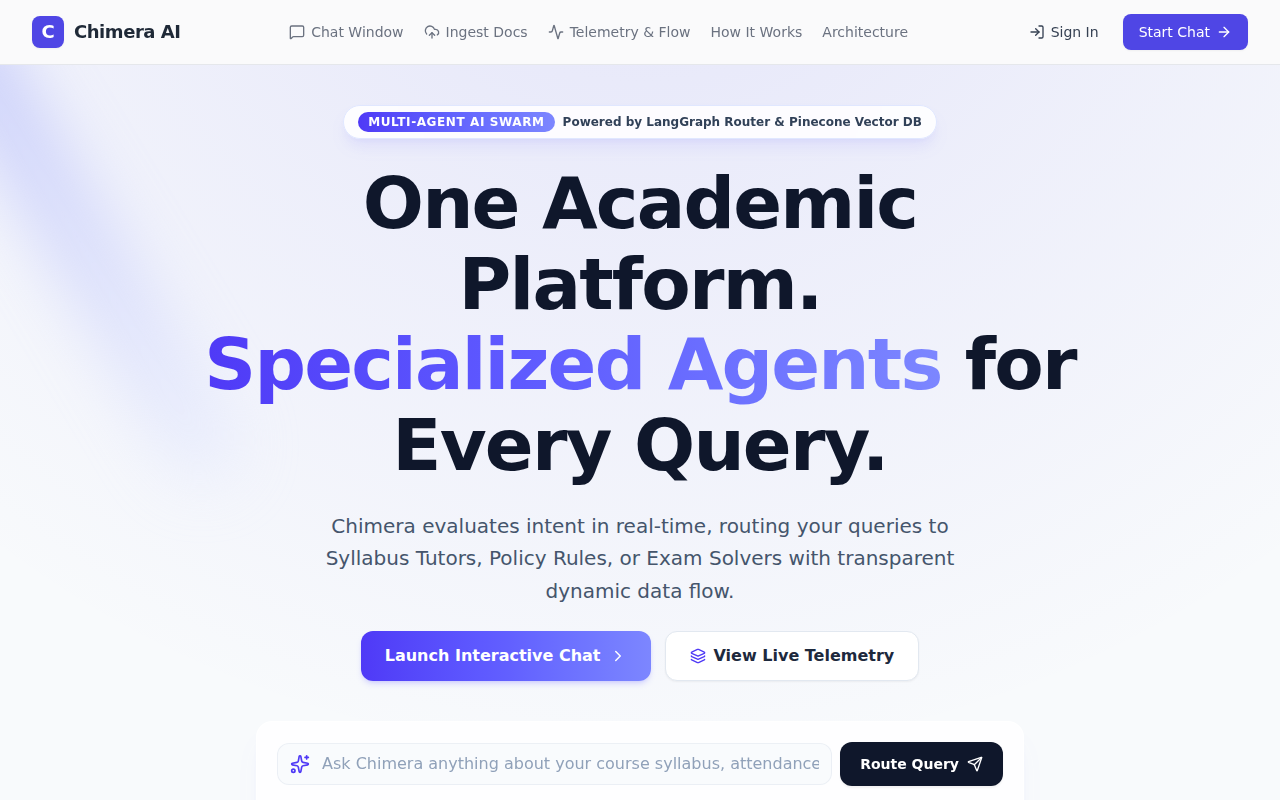
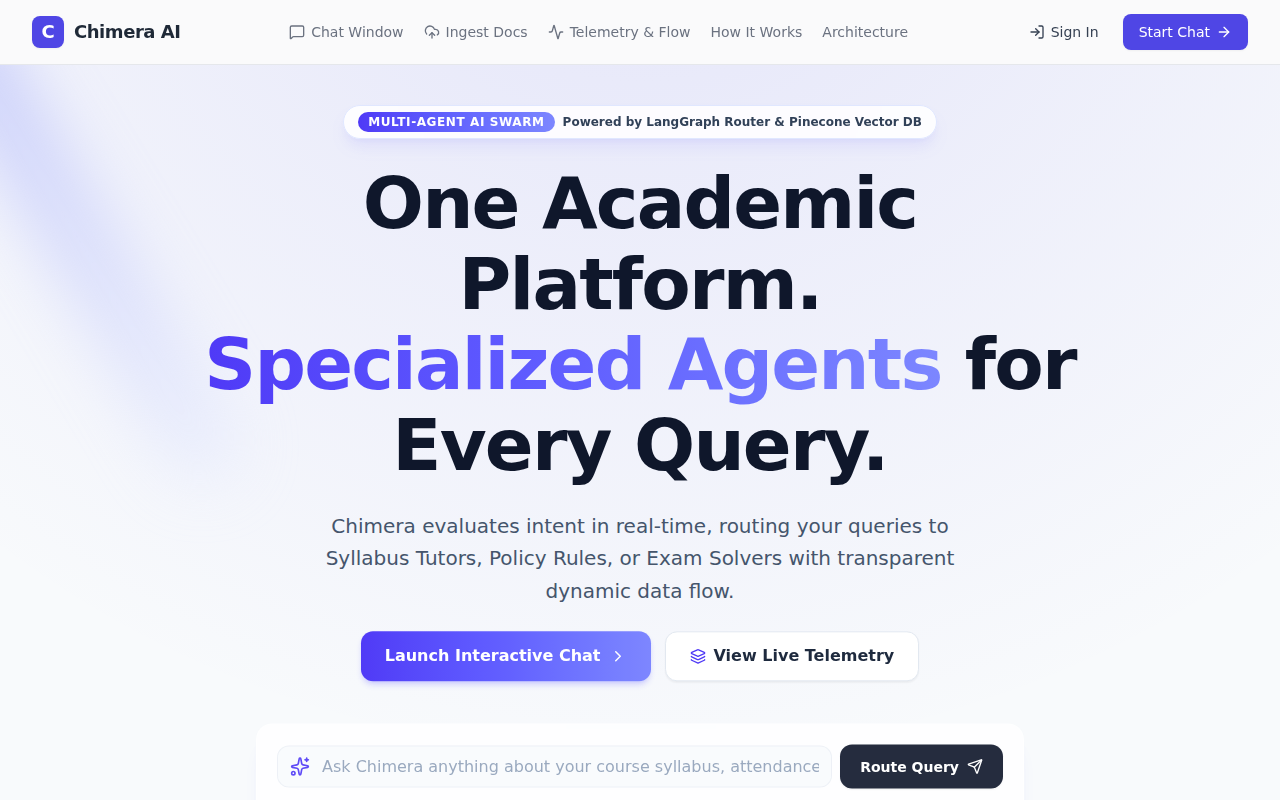
feat: enhance pages with HeroFinancial inspired motion and ambient glows

Changed region(s): [[0.2188, 0.9062, 0.7812, 1.0], [0.5312, 0.8125, 0.6875, 0.8438], [0.3125, 0.8125, 0.375, 0.8438]]

diff --git a/chimera-frontend/src/pages/LoginPage.jsx b/chimera-frontend/src/pages/LoginPage.jsx
@@ -1,7 +1,8 @@
-import React, { useState } from "react";
+import React, { useState, useRef } from "react";
 import { useNavigate, Link } from "react-router-dom";
 import { HeaderNav } from "@/components/HeaderNav";
 import { SpotlightCard } from "@/components/ui/spotlight-card";
+import { TimelineAnimation } from "@/components/ui/hero-financial-utils/timeline-animation";
 import { Lock, Mail, ArrowRight, ShieldCheck, UserCheck, Sparkles, CheckCircle2 } from "lucide-react";
 
 export function LoginPage() {
@@ -12,6 +13,7 @@ export function LoginPage() {
   const [isLoading, setIsLoading] = useState(false);
   const [error, setError] = useState("");
   const navigate = useNavigate();
+  const timelineRef = useRef(null);
 
   const handleLogin = (e) => {
     e.preventDefault();
@@ -48,170 +50,175 @@ export function LoginPage() {
   };
 
   return (
-    <div className="min-h-screen bg-[#F9FAFB] text-[#1F2937] flex flex-col font-sans">
+    <div ref={timelineRef} className="min-h-screen bg-[#f7f9fc] text-[#1f293b] flex flex-col font-sans relative overflow-hidden">
+      {/* Background Soft Glow & SVGs inspired by HeroFinancial */}
+      <div className="absolute inset-0 z-0 bg-[radial-gradient(ellipse_80%_80%_at_50%_-20%,rgba(79,70,229,0.12),rgba(255,255,255,0))] pointer-events-none" />
+
       <HeaderNav />
 
-      <main className="flex-1 flex items-center justify-center px-4 py-12 bg-radial from-indigo-50/50 via-gray-50 to-gray-100">
+      <main className="flex-1 flex items-center justify-center px-4 py-12 relative z-10">
         <div className="w-full max-w-md">
           {/* Top Logo / Title Banner */}
-          <div className="text-center mb-8">
-            <div className="inline-flex items-center justify-center w-12 h-12 rounded-xl bg-[#4F46E5] text-white font-bold text-2xl shadow-lg shadow-indigo-500/30 mb-3">
+          <TimelineAnimation animationNum={1} timelineRef={timelineRef} className="text-center mb-8">
+            <div className="inline-flex items-center justify-center w-12 h-12 rounded-xl bg-gradient-to-tr from-indigo-600 to-indigo-400 text-white font-bold text-2xl shadow-lg shadow-indigo-500/30 mb-3">
               C
             </div>
-            <h1 className="text-2xl font-bold text-[#1F2937] tracking-tight">
+            <h1 className="text-2xl sm:text-3xl font-extrabold text-[#1f293b] tracking-tight">
               Welcome to Chimera Swarm
             </h1>
-            <p className="text-sm text-[#6B7280] mt-1">
+            <p className="text-sm text-slate-500 mt-1 font-medium">
               Multi-Agent Intelligence Network for University Systems
             </p>
-          </div>
+          </TimelineAnimation>
 
-          {/* 21st.dev Style Spotlight Card Container */}
-          <SpotlightCard className="p-8 bg-white/90 backdrop-blur-xl border border-gray-200/80 rounded-2xl shadow-xl shadow-gray-200/50">
-            {/* Role Switcher Tabs */}
-            <div className="flex bg-gray-100/80 p-1 rounded-xl mb-6">
-              <button
-                type="button"
-                onClick={() => setRole("student")}
-                className={`flex-1 flex items-center justify-center gap-2 py-2 rounded-lg text-xs font-semibold transition-all ${
-                  role === "student"
-                    ? "bg-white text-[#4F46E5] shadow-xs"
-                    : "text-gray-500 hover:text-gray-900"
-                }`}
-              >
-                <UserCheck className="w-3.5 h-3.5" />
-                Student Portal
-              </button>
-              <button
-                type="button"
-                onClick={() => setRole("faculty")}
-                className={`flex-1 flex items-center justify-center gap-2 py-2 rounded-lg text-xs font-semibold transition-all ${
-                  role === "faculty"
-                    ? "bg-white text-[#4F46E5] shadow-xs"
-                    : "text-gray-500 hover:text-gray-900"
-                }`}
-              >
-                <ShieldCheck className="w-3.5 h-3.5" />
-                Faculty / Admin
-              </button>
-            </div>
-
-            {error && (
-              <div className="mb-4 p-3 rounded-lg bg-red-50 border border-red-200 text-red-600 text-xs font-medium">
-                {error}
+          {/* Spotlight Card with Timeline Motion */}
+          <TimelineAnimation animationNum={2} timelineRef={timelineRef}>
+            <SpotlightCard className="p-8 bg-white/90 backdrop-blur-xl border border-white/80 rounded-2xl shadow-xl shadow-indigo-500/5">
+              {/* Role Switcher Tabs */}
+              <div className="flex bg-slate-100/80 p-1 rounded-xl mb-6 border border-slate-200/60">
+                <button
+                  type="button"
+                  onClick={() => setRole("student")}
+                  className={`flex-1 flex items-center justify-center gap-2 py-2 rounded-lg text-xs font-semibold transition-all ${
+                    role === "student"
+                      ? "bg-white text-indigo-600 shadow-xs"
+                      : "text-slate-500 hover:text-slate-900"
+                  }`}
+                >
+                  <UserCheck className="w-3.5 h-3.5" />
+                  Student Portal
+                </button>
+                <button
+                  type="button"
+                  onClick={() => setRole("faculty")}
+                  className={`flex-1 flex items-center justify-center gap-2 py-2 rounded-lg text-xs font-semibold transition-all ${
+                    role === "faculty"
+                      ? "bg-white text-indigo-600 shadow-xs"
+                      : "text-slate-500 hover:text-slate-900"
+                  }`}
+                >
+                  <ShieldCheck className="w-3.5 h-3.5" />
+                  Faculty / Admin
+                </button>
               </div>
-            )}
 
-            <form onSubmit={handleLogin} className="space-y-4">
-              <div>
-                <label className="block text-xs font-medium text-gray-700 mb-1">
-                  University Email
-                </label>
-                <div className="relative">
-                  <Mail className="absolute left-3 top-1/2 -translate-y-1/2 w-4 h-4 text-gray-400" />
-                  <input
-                    type="email"
-                    value={email}
-                    onChange={(e) => setEmail(e.target.value)}
-                    placeholder={role === "student" ? "student@university.edu" : "faculty@university.edu"}
-                    className="w-full pl-9 pr-4 py-2.5 bg-gray-50/50 border border-gray-300 rounded-lg text-sm text-gray-900 placeholder-gray-400 focus:outline-none focus:ring-2 focus:ring-[#4F46E5]/30 focus:border-[#4F46E5] transition-all"
-                    required
-                  />
+              {error && (
+                <div className="mb-4 p-3 rounded-lg bg-red-50 border border-red-200 text-red-600 text-xs font-medium">
+                  {error}
                 </div>
-              </div>
+              )}
 
-              <div>
-                <div className="flex items-center justify-between mb-1">
-                  <label className="block text-xs font-medium text-gray-700">
-                    Password
+              <form onSubmit={handleLogin} className="space-y-4">
+                <div>
+                  <label className="block text-xs font-medium text-slate-700 mb-1">
+                    University Email
                   </label>
-                  <a href="#" onClick={(e) => e.preventDefault()} className="text-xs text-[#4F46E5] hover:underline font-medium">
-                    Forgot password?
-                  </a>
+                  <div className="relative">
+                    <Mail className="absolute left-3 top-1/2 -translate-y-1/2 w-4 h-4 text-slate-400" />
+                    <input
+                      type="email"
+                      value={email}
+                      onChange={(e) => setEmail(e.target.value)}
+                      placeholder={role === "student" ? "student@university.edu" : "faculty@university.edu"}
+                      className="w-full pl-9 pr-4 py-2.5 bg-slate-50/50 border border-slate-200 rounded-lg text-sm text-slate-900 placeholder-slate-400 focus:outline-none focus:ring-2 focus:ring-indigo-500/30 focus:border-indigo-500 transition-all"
+                      required
+                    />
+                  </div>
                 </div>
-                <div className="relative">
-                  <Lock className="absolute left-3 top-1/2 -translate-y-1/2 w-4 h-4 text-gray-400" />
-                  <input
-                    type="password"
-                    value={password}
-                    onChange={(e) => setPassword(e.target.value)}
-                    placeholder="••••••••"
-                    className="w-full pl-9 pr-4 py-2.5 bg-gray-50/50 border border-gray-300 rounded-lg text-sm text-gray-900 placeholder-gray-400 focus:outline-none focus:ring-2 focus:ring-[#4F46E5]/30 focus:border-[#4F46E5] transition-all"
-                    required
-                  />
+
+                <div>
+                  <div className="flex items-center justify-between mb-1">
+                    <label className="block text-xs font-medium text-slate-700">
+                      Password
+                    </label>
+                    <a href="#" onClick={(e) => e.preventDefault()} className="text-xs text-indigo-600 hover:underline font-medium">
+                      Forgot password?
+                    </a>
+                  </div>
+                  <div className="relative">
+                    <Lock className="absolute left-3 top-1/2 -translate-y-1/2 w-4 h-4 text-slate-400" />
+                    <input
+                      type="password"
+                      value={password}
+                      onChange={(e) => setPassword(e.target.value)}
+                      placeholder="••••••••"
+                      className="w-full pl-9 pr-4 py-2.5 bg-slate-50/50 border border-slate-200 rounded-lg text-sm text-slate-900 placeholder-slate-400 focus:outline-none focus:ring-2 focus:ring-indigo-500/30 focus:border-indigo-500 transition-all"
+                      required
+                    />
+                  </div>
+                </div>
+
+                <div className="flex items-center justify-between pt-1">
+                  <label className="flex items-center gap-2 cursor-pointer">
+                    <input
+                      type="checkbox"
+                      checked={rememberMe}
+                      onChange={(e) => setRememberMe(e.target.checked)}
+                      className="rounded text-indigo-600 focus:ring-indigo-500 w-4 h-4"
+                    />
+                    <span className="text-xs text-slate-600">Remember session</span>
+                  </label>
+                </div>
+
+                <button
+                  type="submit"
+                  disabled={isLoading}
+                  className="w-full mt-2 py-2.5 px-4 rounded-xl bg-gradient-to-r from-indigo-600 via-indigo-500 to-indigo-400 hover:opacity-95 text-white text-sm font-semibold flex items-center justify-center gap-2 shadow-md shadow-indigo-500/20 transition-all disabled:opacity-50 cursor-pointer"
+                >
+                  {isLoading ? (
+                    <span className="inline-block w-4 h-4 border-2 border-white/30 border-t-white rounded-full animate-spin"></span>
+                  ) : (
+                    <>
+                      Sign In to Swarm
+                      <ArrowRight className="w-4 h-4" />
+                    </>
+                  )}
+                </button>
+              </form>
+
+              <div className="relative my-6">
+                <div className="absolute inset-0 flex items-center">
+                  <div className="w-full border-t border-slate-200"></div>
+                </div>
+                <div className="relative flex justify-center text-xs">
+                  <span className="bg-white px-3 text-slate-400 font-medium">Or explore instantly</span>
                 </div>
               </div>
 
-              <div className="flex items-center justify-between pt-1">
-                <label className="flex items-center gap-2 cursor-pointer">
-                  <input
-                    type="checkbox"
-                    checked={rememberMe}
-                    onChange={(e) => setRememberMe(e.target.checked)}
-                    className="rounded text-[#4F46E5] focus:ring-[#4F46E5] w-4 h-4"
-                  />
-                  <span className="text-xs text-gray-600">Remember session</span>
-                </label>
+              {/* Quick Demo Access */}
+              <div className="space-y-2">
+                <button
+                  type="button"
+                  onClick={() => handleQuickDemo("student")}
+                  className="w-full py-2 px-3 rounded-lg border border-indigo-200 bg-indigo-50/50 hover:bg-indigo-50 text-indigo-700 text-xs font-semibold flex items-center justify-between transition-colors"
+                >
+                  <span className="flex items-center gap-1.5">
+                    <Sparkles className="w-3.5 h-3.5 text-indigo-600" />
+                    Enter as Student Demo
+                  </span>
+                  <span className="text-[10px] bg-indigo-100 px-2 py-0.5 rounded-md font-mono">Instant Access</span>
+                </button>
+
+                <button
+                  type="button"
+                  onClick={() => handleQuickDemo("faculty")}
+                  className="w-full py-2 px-3 rounded-lg border border-amber-200 bg-amber-50/50 hover:bg-amber-50 text-amber-800 text-xs font-semibold flex items-center justify-between transition-colors"
+                >
+                  <span className="flex items-center gap-1.5">
+                    <ShieldCheck className="w-3.5 h-3.5 text-amber-600" />
+                    Enter as Faculty Demo
+                  </span>
+                  <span className="text-[10px] bg-amber-100 px-2 py-0.5 rounded-md font-mono">Admin Mode</span>
+                </button>
               </div>
-
-              <button
-                type="submit"
-                disabled={isLoading}
-                className="w-full mt-2 py-2.5 px-4 rounded-xl bg-[#4F46E5] hover:bg-[#4338CA] text-white text-sm font-semibold flex items-center justify-center gap-2 shadow-md shadow-indigo-500/20 transition-all disabled:opacity-50 cursor-pointer"
-              >
-                {isLoading ? (
-                  <span className="inline-block w-4 h-4 border-2 border-white/30 border-t-white rounded-full animate-spin"></span>
-                ) : (
-                  <>
-                    Sign In to Swarm
-                    <ArrowRight className="w-4 h-4" />
-                  </>
-                )}
-              </button>
-            </form>
-
-            <div className="relative my-6">
-              <div className="absolute inset-0 flex items-center">
-                <div className="w-full border-t border-gray-200"></div>
-              </div>
-              <div className="relative flex justify-center text-xs">
-                <span className="bg-white px-3 text-gray-400 font-medium">Or explore instantly</span>
-              </div>
-            </div>
-
-            {/* Quick Demo Access */}
-            <div className="space-y-2">
-              <button
-                type="button"
-                onClick={() => handleQuickDemo("student")}
-                className="w-full py-2 px-3 rounded-lg border border-indigo-200 bg-indigo-50/50 hover:bg-indigo-50 text-indigo-700 text-xs font-semibold flex items-center justify-between transition-colors"
-              >
-                <span className="flex items-center gap-1.5">
-                  <Sparkles className="w-3.5 h-3.5 text-[#4F46E5]" />
-                  Enter as Student Demo
-                </span>
-                <span className="text-[10px] bg-indigo-100 px-2 py-0.5 rounded-md font-mono">Instant Access</span>
-              </button>
-
-              <button
-                type="button"
-                onClick={() => handleQuickDemo("faculty")}
-                className="w-full py-2 px-3 rounded-lg border border-amber-200 bg-amber-50/50 hover:bg-amber-50 text-amber-800 text-xs font-semibold flex items-center justify-between transition-colors"
-              >
-                <span className="flex items-center gap-1.5">
-                  <ShieldCheck className="w-3.5 h-3.5 text-amber-600" />
-                  Enter as Faculty Demo
-                </span>
-                <span className="text-[10px] bg-amber-100 px-2 py-0.5 rounded-md font-mono">Admin Mode</span>
-              </button>
-            </div>
-          </SpotlightCard>
+            </SpotlightCard>
+          </TimelineAnimation>
 
           {/* Footer Note */}
-          <div className="mt-6 text-center text-xs text-gray-500 flex items-center justify-center gap-1">
+          <TimelineAnimation animationNum={3} timelineRef={timelineRef} className="mt-6 text-center text-xs text-slate-500 flex items-center justify-center gap-1">
             <CheckCircle2 className="w-3.5 h-3.5 text-emerald-500" />
             <span>End-to-end encrypted session with LangGraph Swarm Orchestrator</span>
-          </div>
+          </TimelineAnimation>
         </div>
       </main>
     </div>
